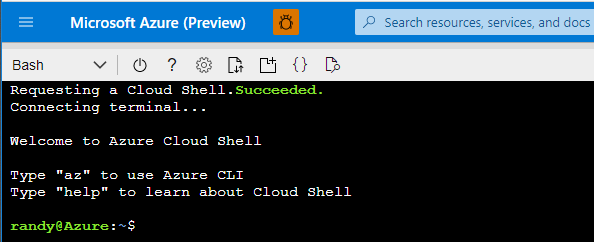
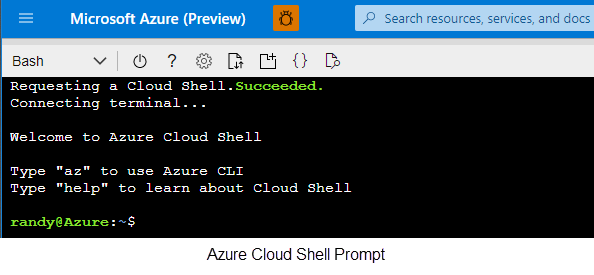
Checkpoint

diff --git a/README.md b/README.md
@@ -32,7 +32,7 @@ In this exercise you log into your Azure Subscription and launch the Bash [Azure
 
 1. [Launch Cloud Shell](https://shell.azure.com)  (https://shell.azure.com)
 1. When prompted, Log into your Azure Subscription 
-1. If this is you first time launching the Azure Cloud Shell, you will need to link a storage account. 
+1. If this is your first time launching the Azure Cloud Shell, you will need to create a storage account. 
 
     1. Choose Bash shell
 
@@ -42,14 +42,19 @@ In this exercise you log into your Azure Subscription and launch the Bash [Azure
     
         ![](/media/image-2.png)    
 
-![](media/image-3.png)
-<p>Azure Cloud Shell Bash prompt</p>
+![](media/image-3.png "Azure Cloud Shell Bash prompt")
+>![](media/idea.png) Use ***shift+insert*** to paste the commands from this lab into the cloud shell terminal
 
->TIP: Use ***shift+insert*** to paste the commands from this lab into the cloud shell terminal
+## Task 2: Create a Container Registry 
 
-## Task 2 - Create a Container Registry 
+1. First, create a unique name for the container registry 
+```bash
+acr="azdevdaysacr"$RANDOM
+echo $acr
+```
 
-1. First, create a Resource Group to organize the resources we will create in the Lab.  An Azure resource group is a logical container into which Azure resources are deployed and managed.
+
+1. Create a Resource Group to organize the resources we will create in the Lab.  An Azure resource group is a logical container into which Azure resources are deployed and managed.
 
 ```bash
 az group create -n azuredevdays-rg --location eastus
@@ -58,7 +63,7 @@ az group create -n azuredevdays-rg --location eastus
 2. Next, create an Azure container registry in the Resource Group we created in the previous step.
 
 ```bash 
-az acr create -g azuredevdays-rg --n azuredevdaysacr --sku Basic
+az acr create -g azuredevdays-rg --n $acr --sku Basic
 ```
 
 ## Task 3 - Create an Azure Kubernetes Cluster 
@@ -66,9 +71,14 @@ az acr create -g azuredevdays-rg --n azuredevdaysacr --sku Basic
 1. Create an AKS Cluster and link it to the Container Registry created in Exercise 2
 
 ```bash 
-az aks create -n azuredevdays-aks -g azuredevdays-rg  --generate-ssh-keys --attach-acr azuredevdaysacr --node-count 1
+az aks create \
+    -n azuredevdays-aks \
+    -g azuredevdays-rg \
+    --generate-ssh-keys \
+    --attach-acr $acr \
+    --node-count 1
 ```
->NOTE: This can take several minutes to complete 
+>![](media/idea.png) This can take several minutes to complete 
 
 
 
@@ -83,10 +93,43 @@ cd azuredev-aks
 
 2. Build the Web App front-end image and upload to Container Registry
 ```bash
-az acr build --image sample/demoweb-app:v1 --registry azuredevdaysacr --file ./WebApp/Dockerfile .
+az acr build \
+    --image sample/demoweb-app:v1 \
+    --registry $acr \
+    --file ./WebApp/Dockerfile .
 ```
 
 3. Build the API back-end image and upload to the container registry created in 
 ```bash
-az acr build --image sample/demoweb-api:v1 --registry azuredevdaysacr --file ./WebAPI/Dockerfile .
+az acr build \
+    --image sample/demoweb-api:v1 \
+    --registry $acr \
+    --file ./WebAPI/Dockerfile .
 ```
+## Task 5 - Deploy application to AKS
+
+1. First, modify the Kubernetes YAML files to include the name of your Azure Container Registry created in [Task 2](#task-2-create-a-container-registry). You can type the command ``` echo $acr ``` to display the name of your Registry
+
+    1. Open the editor using the ```{}``` icon located at the top of Azure Cloud Shell
+    1. In the editor, navigate to the direcory **azuredev-aks/k8s** and open the **frontend-webapp.yaml** file and update the string **"[replace]"** for the container image name on line 32 with the name of your container registry 
+    1. Save your changes by pressing ```CTRL+S```
+    ![](media/image-4.png)
+
+    1. Next, open the file **backend-webapi.yaml** and update the string **"[replace]"** for the container image name with the name of your container registry 
+    ![](media/image-5.png)
+
+
+
+
+
+
+    >![](/media/challange.png)Challenge: Scale the front web app pods to 4 instances
+
+    <details>
+    <summary>Answer</summary>
+    
+    ### Scale the web app pods to 4 replicas using the command
+    ```bash
+    kubectl scale ......
+    ```
+    </details>
